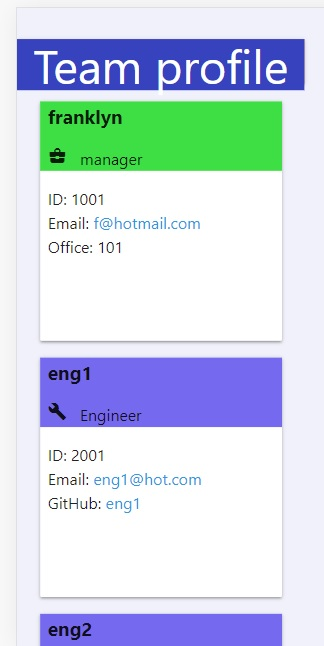
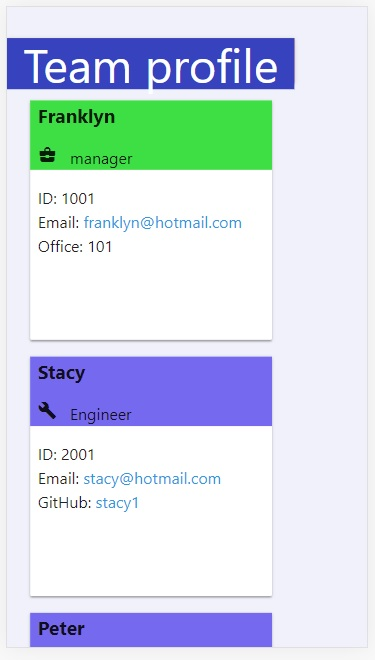
latest updates with screenshots and animated gif

Changed region(s): [[0.0, 0.031, 0.9568, 1.0], [0.8642, 0.8978, 0.8951, 0.9288]]

diff --git a/dist/index.html b/dist/index.html
@@ -29,7 +29,7 @@
                 <div class="col s12 m6 l4">
                     <div class="card small">
                         <div class="content mgr">
-                            <span class="title">franklyn</span>
+                            <span class="title">Franklyn</span>
                             <p><span><i class="material-icons">business_center</i></span>&nbsp;&nbsp;&nbsp;manager</p>
                         </div>
                         <div class="data">
@@ -37,7 +37,7 @@
                                 <span>ID: </span><span>1001</span>
                             </div>
                             <div class="">
-                                <span>Email: </span><a href="mailto:undefined">f@hotmail.com</a>
+                                <span>Email: </span><a href="mailto:undefined">franklyn@hotmail.com</a>
                             </div>
                             <div class="">
                                 <span>Office: </span><span>101</span>
@@ -50,7 +50,7 @@
                 <div class="col s12 m6 l4">
                     <div class="card small">
                         <div class="content eng">
-                            <span class="title">eng1</span>
+                            <span class="title">Stacy</span>
                             <p><span><i class="material-icons">build</i></span>&nbsp;&nbsp;&nbsp;Engineer</p>
                         </div>
                         <div class="data">
@@ -58,10 +58,10 @@
                                 <span>ID: </span><span>2001</span>
                             </div>
                             <div>
-                                <span>Email: </span><a href="mailto:eng1@hot.com">eng1@hot.com</a>
+                                <span>Email: </span><a href="mailto:stacy@hotmail.com">stacy@hotmail.com</a>
                             </div>
                             <div>
-                                <span>GitHub: </span><a href="https://github.com/eng1" target="_blank">eng1</a>
+                                <span>GitHub: </span><a href="https://github.com/stacy1" target="_blank">stacy1</a>
                             </div>
                         </div>
                     </div>
@@ -71,7 +71,7 @@
                 <div class="col s12 m6 l4">
                     <div class="card small">
                         <div class="content eng">
-                            <span class="title">eng2</span>
+                            <span class="title">Peter</span>
                             <p><span><i class="material-icons">build</i></span>&nbsp;&nbsp;&nbsp;Engineer</p>
                         </div>
                         <div class="data">
@@ -79,10 +79,10 @@
                                 <span>ID: </span><span>2002</span>
                             </div>
                             <div>
-                                <span>Email: </span><a href="mailto:eng2@hot.com">eng2@hot.com</a>
+                                <span>Email: </span><a href="mailto:peter@hotmail.com">peter@hotmail.com</a>
                             </div>
                             <div>
-                                <span>GitHub: </span><a href="https://github.com/eng2" target="_blank">eng2</a>
+                                <span>GitHub: </span><a href="https://github.com/peter1" target="_blank">peter1</a>
                             </div>
                         </div>
                     </div>
@@ -92,7 +92,7 @@
     <div class="col s12 m6 l4">
         <div class="card small">
             <div class="content intern">
-                <span class="title">int1</span>
+                <span class="title">Sam</span>
                 <p><span><i class="material-icons">lightbulb</i></span>&nbsp;&nbsp;&nbsp;intern</p>
             </div>
             <div class="data">
@@ -100,10 +100,10 @@
                     <span>ID: </span><span>3001</span>
                 </div>
                 <div>
-                    <span>Email: </span><a href="mailto:int1@hot.com">int1@hot.com</a>
+                    <span>Email: </span><a href="mailto:sam@hotmail.com">sam@hotmail.com</a>
                 </div>
                 <div>
-                    <span>School: </span><span>school1</span>
+                    <span>School: </span><span>Ga Tech</span>
                 </div>
             </div>
         </div>
@@ -113,7 +113,7 @@
     <div class="col s12 m6 l4">
         <div class="card small">
             <div class="content intern">
-                <span class="title">int2</span>
+                <span class="title">Paul</span>
                 <p><span><i class="material-icons">lightbulb</i></span>&nbsp;&nbsp;&nbsp;intern</p>
             </div>
             <div class="data">
@@ -121,10 +121,10 @@
                     <span>ID: </span><span>3002</span>
                 </div>
                 <div>
-                    <span>Email: </span><a href="mailto:int2@hot.com">int2@hot.com</a>
+                    <span>Email: </span><a href="mailto:paul@hotmail.com">paul@hotmail.com</a>
                 </div>
                 <div>
-                    <span>School: </span><span>school2</span>
+                    <span>School: </span><span>Duke</span>
                 </div>
             </div>
         </div>

diff --git a/index.js b/index.js
@@ -11,10 +11,9 @@ inquirer.registerPrompt("inquirerLoop", require("inquirer-loop")(inquirer));
 const fs = require("fs")
 
 // import the roles
-//const Empl = require("./lib/Empl")
 const Mgr = require("./lib/Mgr")
 const Eng = require("./lib/Eng")
-const Intern = require("./lib/Intern"); // intern is a class, begni with uppercase
+const Intern = require("./lib/Intern"); // intern is a class, begin with uppercase
 const generateCards = require("./lib/generateCards.js")
 const { ENGINE_METHOD_RSA } = require("constants");
 
@@ -176,35 +175,19 @@ const requests = [
     },
 ]
 
-/*
-Function to add a card to the HTML generated
-*/
-function startHtml(dataStr) {
-
-
-}
-
-function addCard(dataStr, employee) {
-
-
-}
-
-function closeHtml(dataStr) {
-
-}
 
 //call function to request input and then save to HTML file
 function ProcessUserInput() {
 
-    let htmlStr = []/*{ data: "" }*/; // object with string to add Html text
+    let htmlStr = []; // object with string to add Html text
 
     console.log(" ---   Team  formation Application ---\n");
-    // startHtml(htmlStr,beginHTML);
+ 
 
     inquirer.prompt(requests).then((answers) => {
 
         const mgr = new Mgr(answers.mgrName, answers.mgrId, answers.mgrEmail, answers.mgrOfc);
-        generateCards.addMgrCard(/*htmlStr,*/ mgr);
+        generateCards.addMgrCard( mgr);
 
         if (answers.Employees) {
 
@@ -216,14 +199,14 @@ function ProcessUserInput() {
                         answers.Employees[i].id,
                         answers.Employees[i].email,
                         answers.Employees[i].github);
-                    generateCards.addEngCard(tmpEng/*answers.Employees[i]*/);
+                    generateCards.addEngCard(tmpEng);
                 } else {
                     // it is an intern
                     let tmpIntern = new Intern(answers.Employees[i].name,
                         answers.Employees[i].id,
                         answers.Employees[i].email,
                         answers.Employees[i].school);
-                    generateCards.addInternCard(tmpIntern/*answers.Employees[i]*/);
+                    generateCards.addInternCard(tmpIntern);
                 }
             }
         }
@@ -232,7 +215,6 @@ function ProcessUserInput() {
         htmlStr = generateCards.addEndHTML();
 
         //Open file and write the data
-        console.log(htmlStr.join(""));
         fs.writeFile("./dist/index.html", htmlStr.join(""), (error) => {
             if (!error) {
                 console.log("SUCCESS: HTML created !!!");

diff --git a/lib/generateCards.js b/lib/generateCards.js
@@ -51,7 +51,7 @@ const addMgrCard = (empl) => {
                                 <span>ID: </span><span>${empl.Id}</span>
                             </div>
                             <div class="">
-                                <span>Email: </span><a href="mailto:${empl.getEmail}">${empl.Email}</a>
+                                <span>Email: </span><a href="mailto:${empl.Email}">${empl.Email}</a>
                             </div>
                             <div class="">
                                 <span>Office: </span><span>${empl.OfficeNum}</span>
